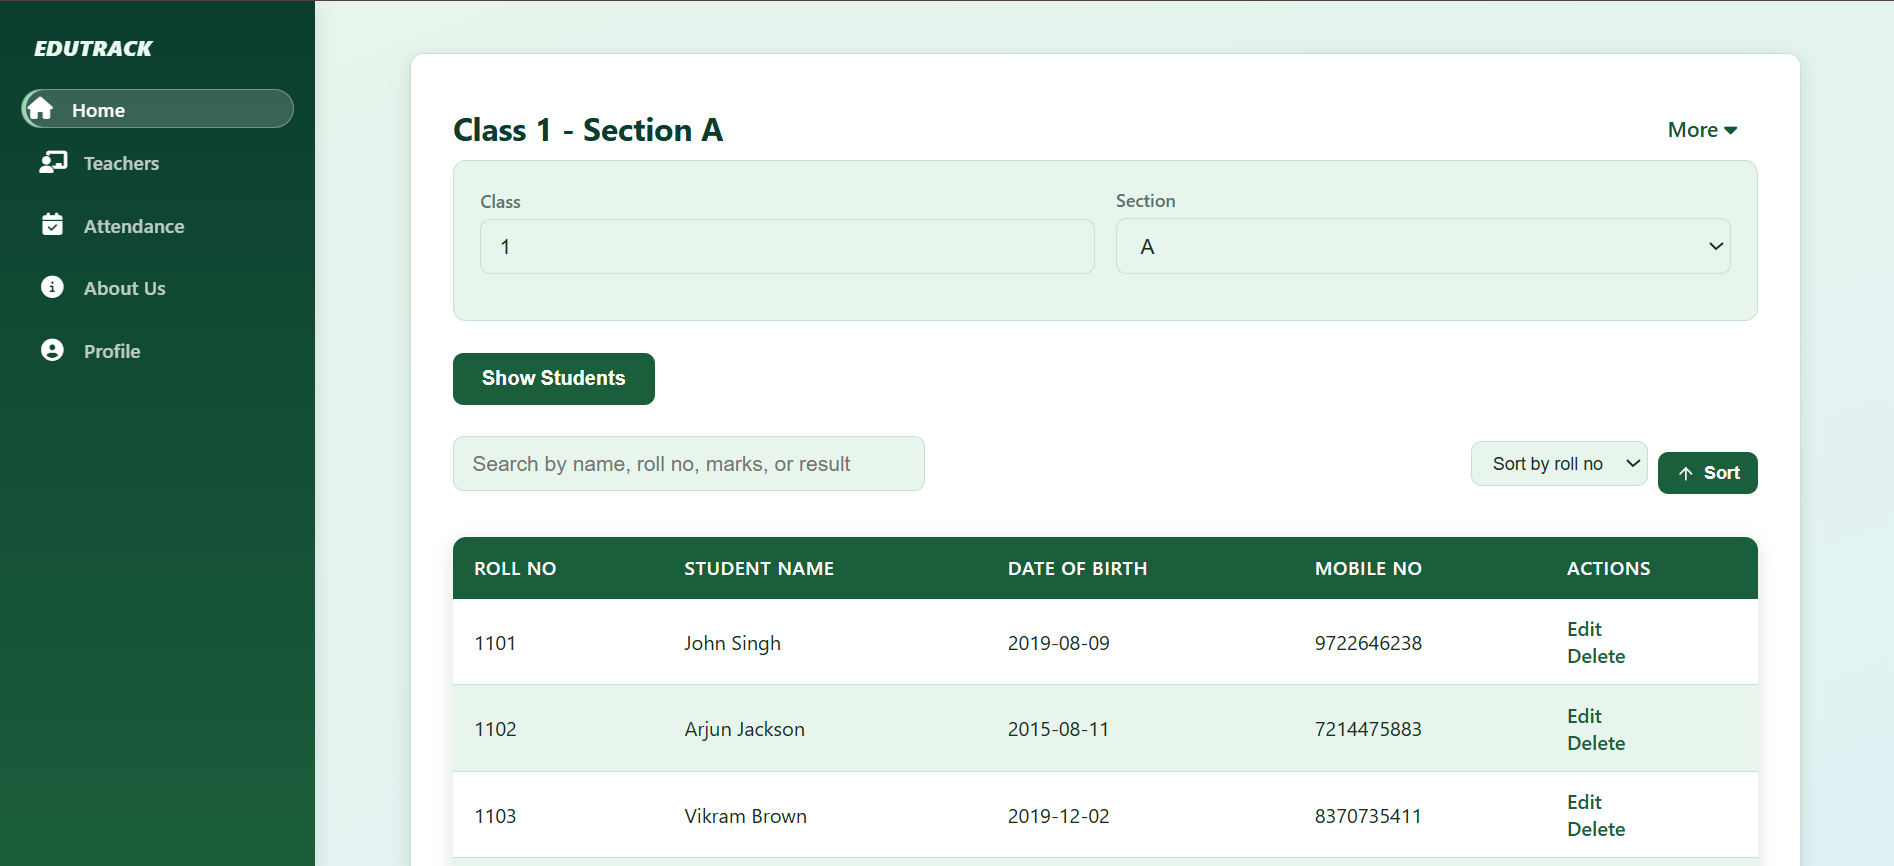
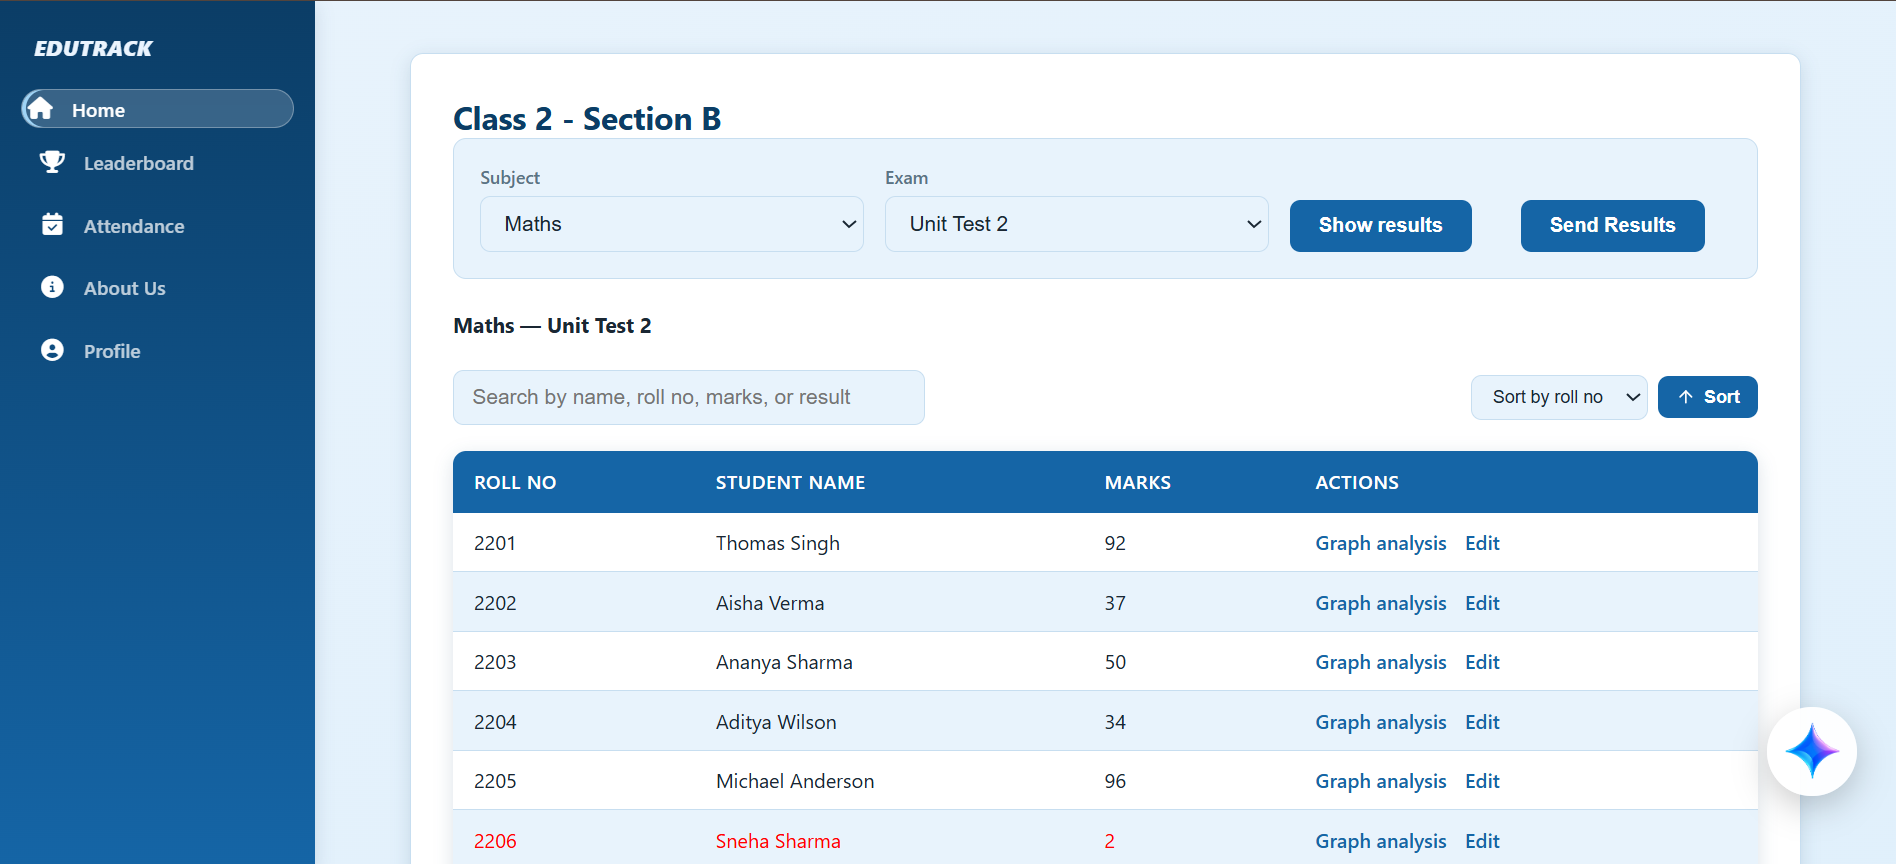
Refactor code structure for improved readability and maintainability

diff --git a/Readme.md b/Readme.md
@@ -244,6 +244,9 @@ The application supports email functionality for system-related communication, i
 ### Leaderboard
 <img src="images/leaderboard.png" alt="EduTrack Leaderboard" width="800">
 
+## Attendance
+<img src="images/attendance.png" alt="EduTrack Leaderboard" width="800">
+
 ## Contributing
 
 Contributions are welcome.
